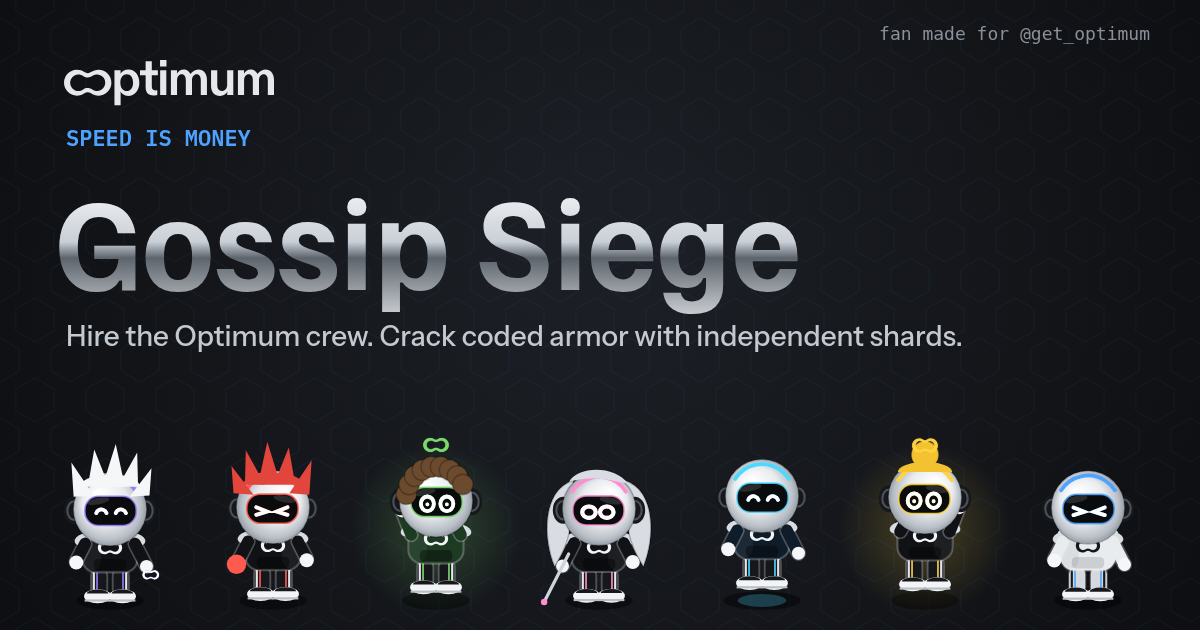
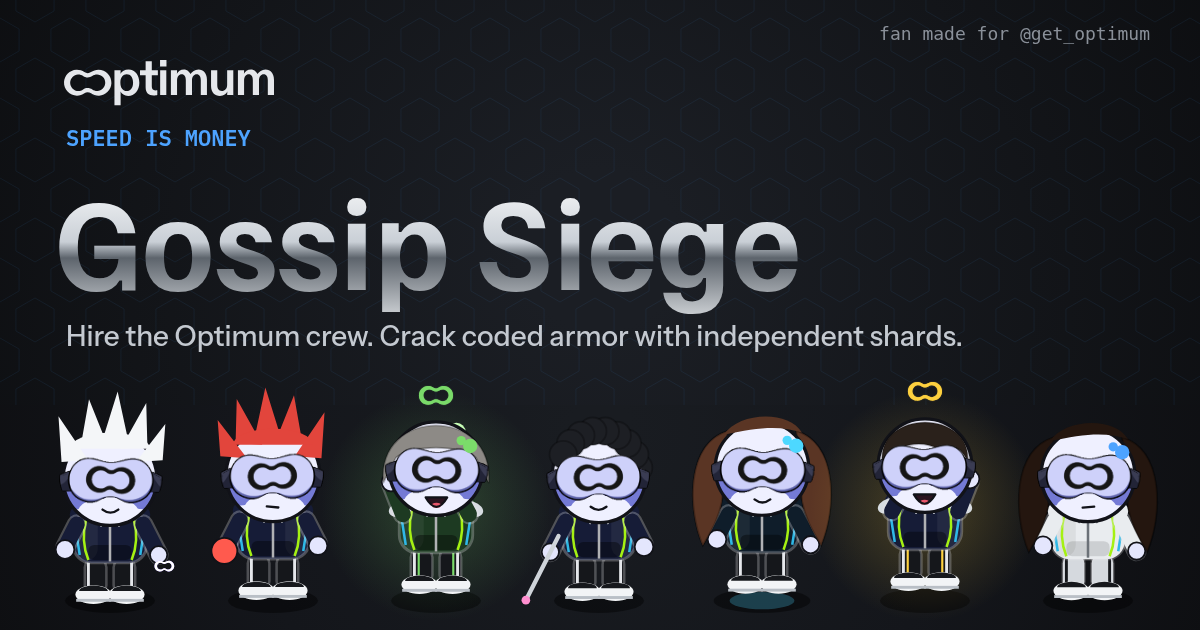
Share image redrawn with the crew in the official goggles

diff --git a/src/game.html b/src/game.html
@@ -1448,7 +1448,7 @@ function portrait(c, kind, size, mood) {
   drawMascot(c, size / 2, size * 1.25, size / 4.4, look, { t: 0.5, aim: Math.PI / 2 + 0.3, mood: mood || 'idle', lvl: 0, kind, seed: 1 });
   c.restore();
 }
-if (/[?&]debug\b/.test(location.search)) window.__portrait = portrait; // test hook for portrait sheets
+if (/[?&]debug\b/.test(location.search)) { window.__portrait = portrait; window.__drawMascot = drawMascot; window.__crew = T.CREW; } // test hooks for portrait sheets and the share image
 function fillPortraits() { for (const el of document.querySelectorAll('canvas[data-portrait]')) { const k = el.dataset.portrait, n = el.width; portrait(el.getContext('2d'), k, n, el.dataset.mood || 'happy'); } }
 const portraitCache = {};
 function portraitURL(kind) {
